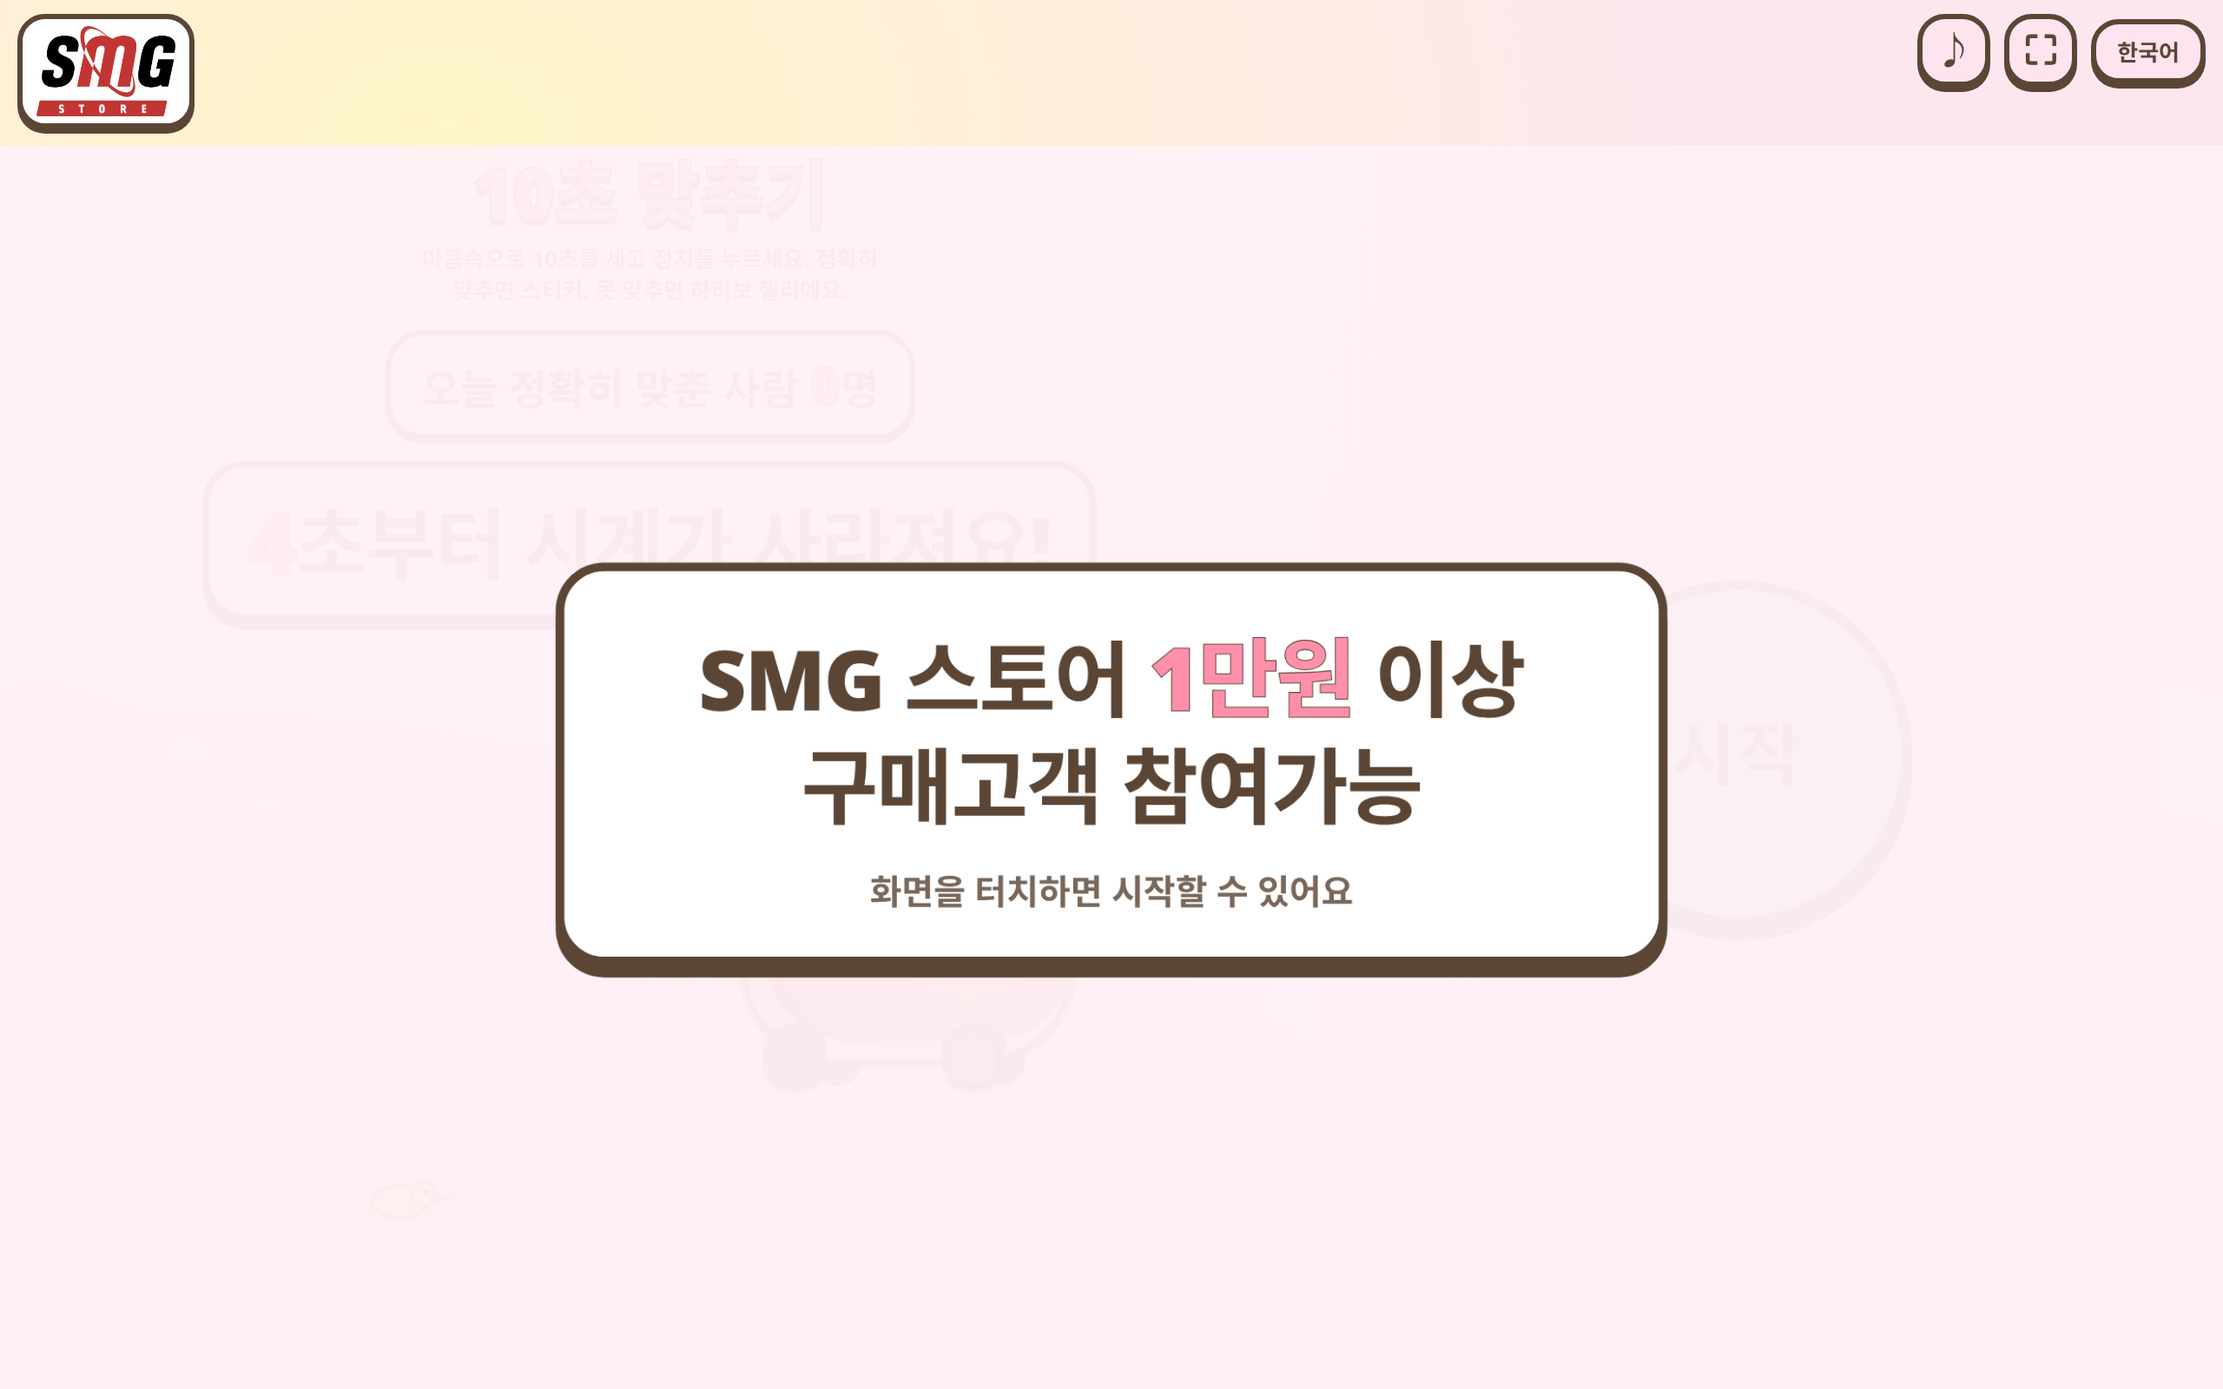
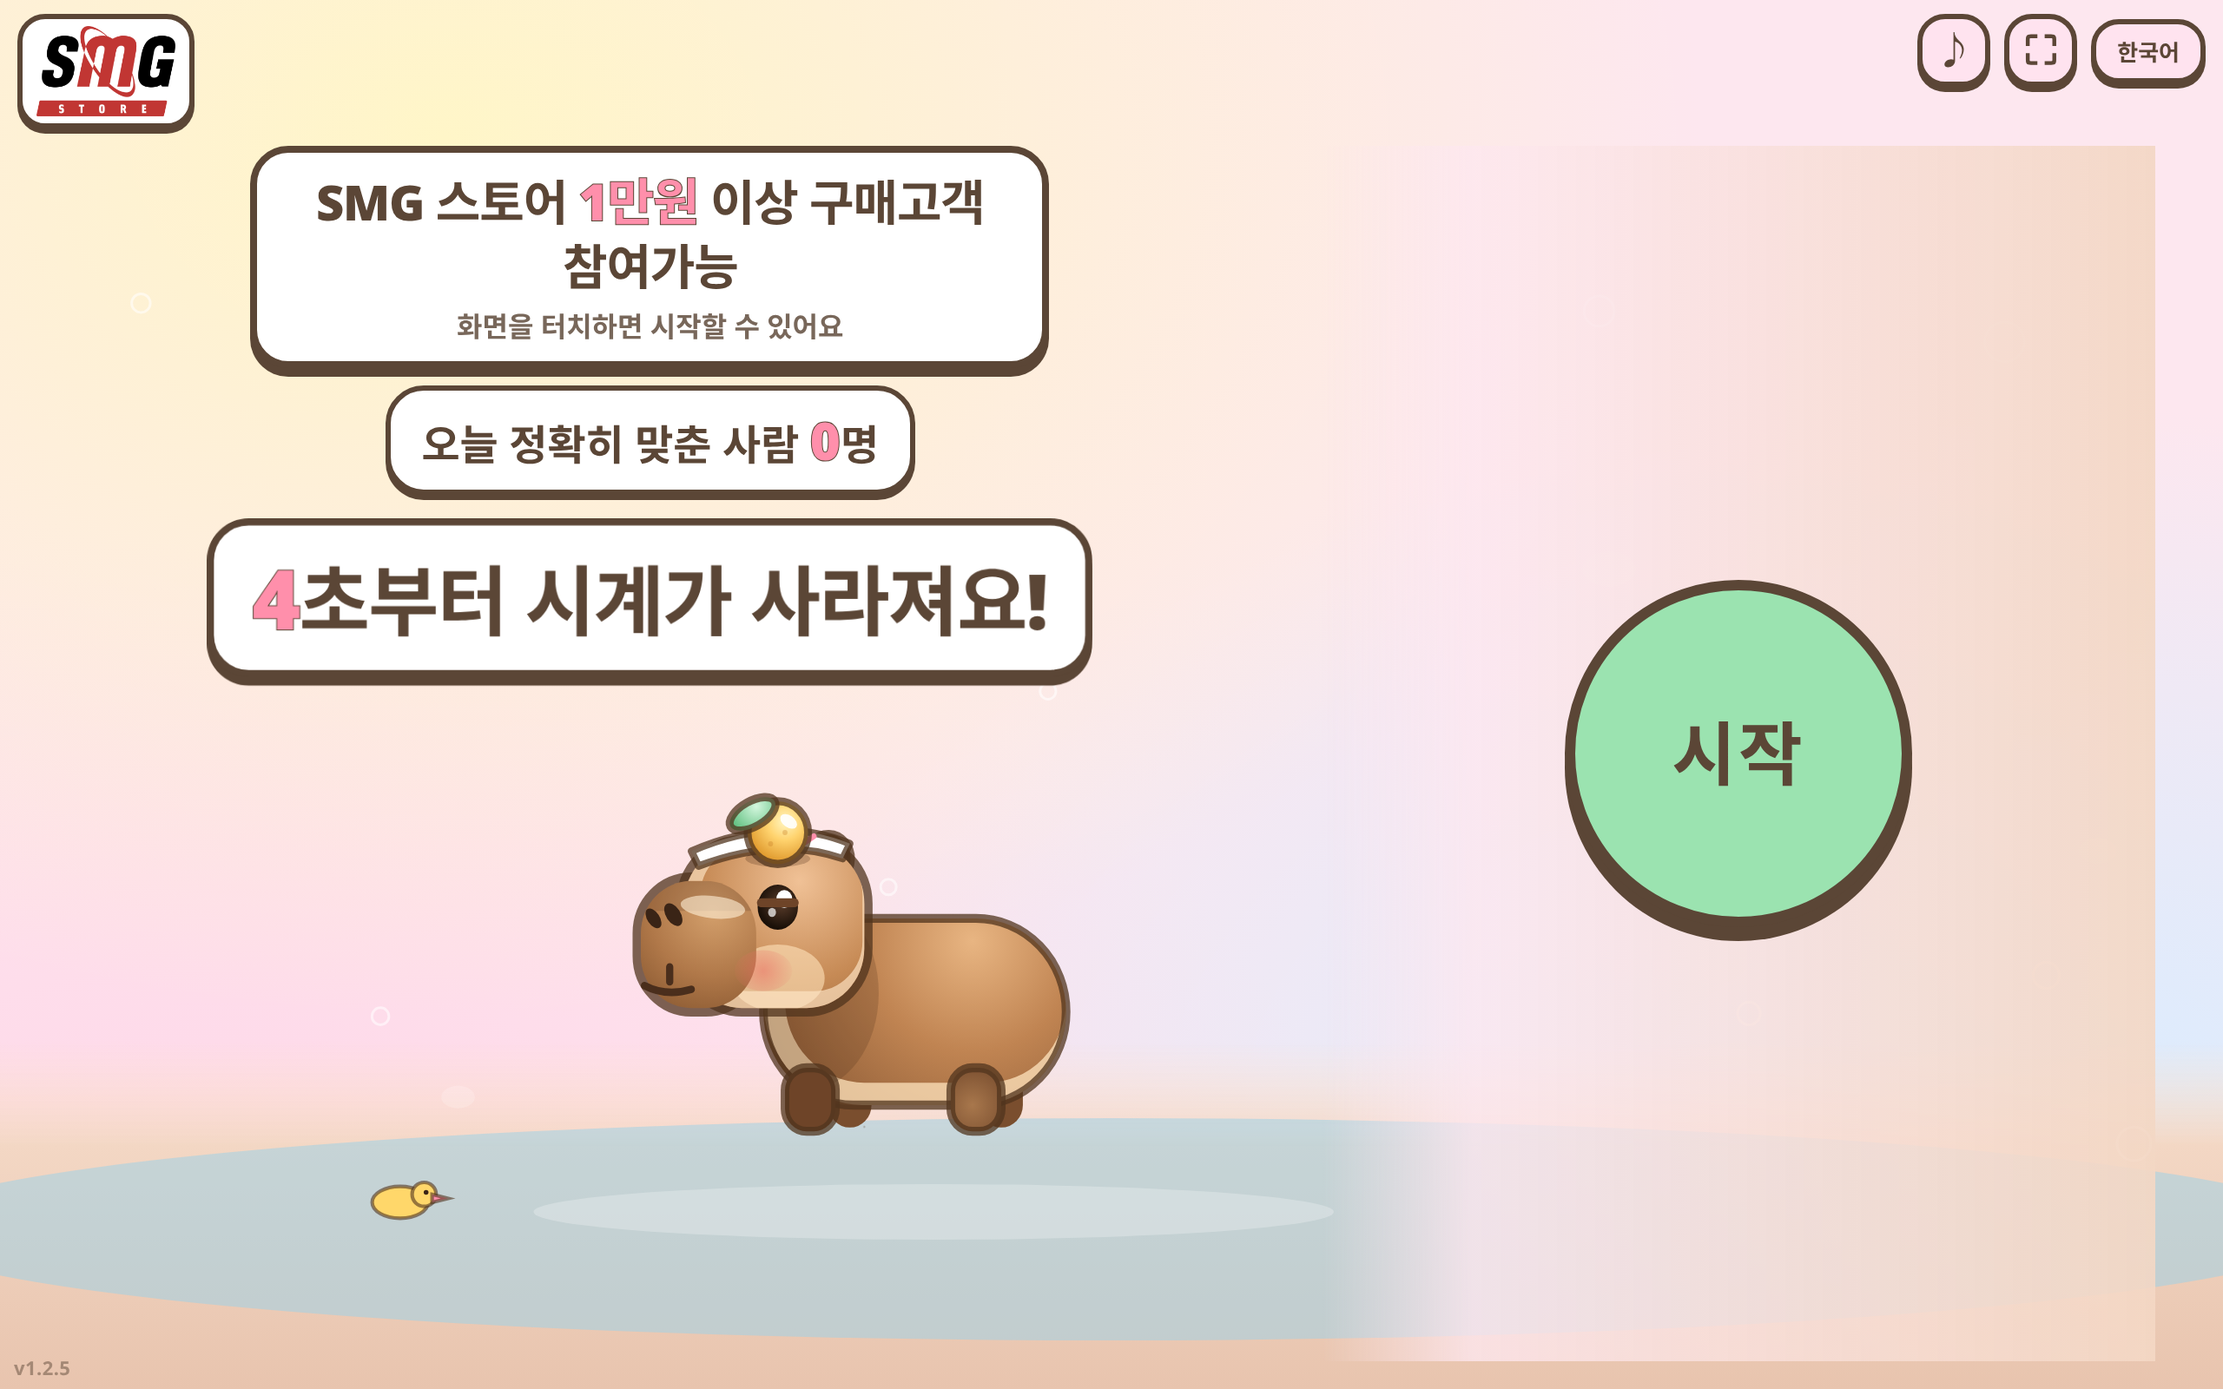
Shrink the tensec entry popup and auto-update cached game pages.

diff --git a/tensec/index.html b/tensec/index.html
@@ -24,7 +24,7 @@ html,body{margin:0;position:fixed;inset:0;width:100%;height:100%;height:100dvh;h
 #app{display:flex;flex-direction:column;align-items:center;padding:0 max(14px,env(safe-area-inset-right)) max(16px,env(safe-area-inset-bottom)) max(14px,env(safe-area-inset-left));z-index:1}
 #scene{position:fixed;left:0;right:0;top:var(--app-top,0);width:100%;height:var(--app-h,100dvh);z-index:0;pointer-events:auto}
 #app{pointer-events:none;background:transparent}
- #app button,#app input,#app table,#app .ov,#app .card,#app #chipLang,#app #clockWrap,#app #result,#app #iosHint,#app #prizeRow,#app #entryGate,#pin,#admin{pointer-events:auto}
+ #app button,#app input,#app table,#app .ov,#app .card,#app #chipLang,#app #clockWrap,#app #result,#app #iosHint,#app #prizeRow,#app #entryGate,#app #entryCatch,#pin,#admin{pointer-events:auto}
 #logo{position:absolute;top:max(8px,env(safe-area-inset-top));left:max(10px,env(safe-area-inset-left));z-index:25;background:#fff;border:3px solid var(--line);border-radius:16px;padding:4px 8px;font-family:inherit;box-shadow:0 3px 0 var(--line);line-height:0}
 #logo img{display:block;height:44px;width:auto;max-width:168px}
 #logo:active{transform:translateY(2px);box-shadow:0 1px 0 var(--line)}
@@ -159,17 +159,21 @@ h1{font-size:clamp(28px,7.2vmin,52px);margin:4px 0 6px;color:var(--title);-webki
   #go.stop{margin-bottom:40px}
 }
 
-#entryGate{position:fixed;left:0;right:0;bottom:0;top:calc(var(--app-top,0px) + var(--chrome-h));z-index:20;display:flex;align-items:center;justify-content:center;padding:12px 16px max(16px,env(safe-area-inset-bottom));background:var(--ov);box-sizing:border-box;pointer-events:auto}
+#entryCatch{position:fixed;left:0;right:0;bottom:0;top:calc(var(--app-top,0px) + var(--chrome-h));z-index:20;background:transparent;pointer-events:auto}
+#entryCatch.hide{display:none!important}
+#entryGate{position:absolute;left:0;right:0;top:0;z-index:21;display:flex;justify-content:center;align-items:flex-start;width:100%;margin:0;padding:0 8px;box-sizing:border-box;background:transparent;pointer-events:auto}
 #entryGate.hide{display:none!important}
 #entryGate.out{animation:gateout .28s ease both;pointer-events:none}
-#entryGate:not(.hide):not(.out){animation:gatein .45s ease both}
+#entryGate:not(.hide):not(.out){animation:gatein .4s ease both}
 .low #entryGate:not(.hide):not(.out),.low #entryGate.out{animation:none}
-.entryCard{background:#fff;border:5px solid var(--line);border-radius:28px;box-shadow:0 7px 0 var(--line);padding:clamp(18px,3.6vmin,32px) clamp(18px,4vmin,36px) clamp(16px,3vmin,26px);width:min(640px,94%);max-width:94vw;max-height:100%;text-align:center;box-sizing:border-box;overflow:auto;color:var(--ink)}
-#entryMsg{margin:0;font-weight:900;font-size:clamp(24px,6.2vmin,48px);line-height:1.3;letter-spacing:-0.02em;word-break:keep-all;overflow-wrap:anywhere}
+body.gated #title,body.gated #help{visibility:hidden}
+.entryCard{background:#fff;border:4px solid var(--line);border-radius:22px;box-shadow:0 5px 0 var(--line);padding:10px 16px 8px;width:min(460px,92%);max-width:92vw;text-align:center;box-sizing:border-box;overflow:visible;color:var(--ink)}
+#entryMsg{margin:0;font-weight:900;font-size:clamp(22px,4.2vmin,28px);line-height:1.3;letter-spacing:-0.02em;word-break:keep-all;overflow-wrap:anywhere}
 #entryMsg b{color:var(--title);font-size:1.04em;-webkit-text-stroke:1px var(--line);paint-order:stroke fill}
-#entryHint{margin:14px 0 0;font-weight:700;font-size:clamp(14px,3.2vmin,20px);line-height:1.35;opacity:.82}
-@keyframes gatein{0%{opacity:0;transform:translateY(18px) scale(.92)}62%{opacity:1;transform:translateY(-4px) scale(1.03)}100%{opacity:1;transform:translateY(0) scale(1)}}
-@keyframes gateout{0%{opacity:1;transform:translateY(0) scale(1)}100%{opacity:0;transform:translateY(10px) scale(.96)}}
+#entryHint{margin:6px 0 0;font-weight:700;font-size:clamp(12px,2.6vmin,16px);line-height:1.35;opacity:.82}
+@keyframes gatein{0%{opacity:0}100%{opacity:1}}
+@keyframes gateout{0%{opacity:1}100%{opacity:0}}
+#appVer{position:fixed;left:max(8px,env(safe-area-inset-left));bottom:max(6px,env(safe-area-inset-bottom));z-index:8;margin:0;padding:0;font-weight:700;font-size:11px;letter-spacing:.02em;color:var(--ink);opacity:.48;pointer-events:none;line-height:1}
 
 </style>
 </head>
@@ -184,14 +188,16 @@ h1{font-size:clamp(28px,7.2vmin,52px);margin:4px 0 6px;color:var(--title);-webki
     <button id="btnFS" type="button" class="hide" aria-label="fullscreen">⛶</button>
     <button id="chipLang" type="button"></button>
   </div>
-    <div id="entryGate" class="hide" role="dialog" aria-modal="true" aria-labelledby="entryMsg" aria-describedby="entryHint">
-    <div class="entryCard">
-      <p id="entryMsg"></p>
-      <p id="entryHint"></p>
-    </div>
-  </div>
+    <div id="entryCatch" class="hide" aria-hidden="true"></div>
+    <div id="appVer" aria-hidden="true"></div>
 <div id="stage">
     <div class="landCol hud">
+      <div id="entryGate" class="hide" role="dialog" aria-modal="true" aria-labelledby="entryMsg" aria-describedby="entryHint">
+        <div class="entryCard">
+          <p id="entryMsg"></p>
+          <p id="entryHint"></p>
+        </div>
+      </div>
       <h1 id="title"></h1>
       <p class="help" id="help"></p>
       <div id="hitsWrap"><div id="hits"></div><div id="hitsPlus">+1</div></div>
@@ -258,7 +264,7 @@ h1{font-size:clamp(28px,7.2vmin,52px);margin:4px 0 6px;color:var(--title);-webki
 <script>
 (function(){
 'use strict';
-var TARGET=10, LS_CFG='tensec_cfg', LS_LOG='tensec_log', AUTO_STOP=30;
+var APP_VER='1.2.5',TARGET=10, LS_CFG='tensec_cfg', LS_LOG='tensec_log', AUTO_STOP=30;
 var LOW=/[?&]low=1/.test(location.search)||(window.matchMedia&&matchMedia('(prefers-reduced-motion: reduce)').matches);
 if(LOW) document.body.classList.add('low');
 var LANGS=['ko','en','id'];
@@ -1153,6 +1159,7 @@ function padChrome(){
   });
   var h=Math.max(64, Math.ceil(bot+10));
   document.documentElement.style.setProperty('--chrome-h',h+'px');
+  if(typeof layoutEntryGate==='function')layoutEntryGate();
 }
 function syncChrome(){
   updateFSUI();
@@ -1203,6 +1210,7 @@ function applyLang(){
   else if(mode==='run')$('go').textContent=t('stop');
   $('next').textContent=cfg.staffReset?t('next'):t('again');
   paintEntryGate();
+  layoutEntryGate();
   if(mode==='title')setRuleHint('rule');
   else if(mode==='run'&&hidden)setRuleHint('hide');
   else setRuleHint(false);
@@ -1298,14 +1306,46 @@ function paintEntryGate(){
   if($('entryHint'))$('entryHint').textContent=t('entryHint');
 }
 function isEntryGateOn(){return !!entryOpen}
+function setCatch(on){
+  var c=$('entryCatch'); if(!c)return;
+  c.classList.toggle('hide',!on);
+  c.setAttribute('aria-hidden',on?'false':'true');
+}
+function layoutEntryGate(){
+  var wrap=$('hitsWrap');
+  if(wrap) wrap.style.marginTop='';
+  if(!entryOpen)return;
+  var el=$('entryGate'), card=el&&el.querySelector('.entryCard');
+  if(!card||!wrap||el.classList.contains('hide'))return;
+  var prevA=el.style.animation;
+  el.style.animation='none';
+  void wrap.offsetHeight;
+  var cur=parseFloat(getComputedStyle(wrap).marginTop)||0;
+  var cr=card.getBoundingClientRect(), hr=wrap.getBoundingClientRect();
+  var need=10-(hr.top-cr.bottom);
+  if(need>0) wrap.style.marginTop=Math.ceil(cur+need)+'px';
+  el.style.animation=prevA;
+}
 function showEntryGate(){
   var el=$('entryGate'); if(!el)return;
   if(entryHideT){clearTimeout(entryHideT);entryHideT=0}
   paintEntryGate();
   entryOpen=true;
+  document.body.classList.add('gated');
   el.classList.remove('hide','out');
   el.setAttribute('aria-hidden','false');
+  setCatch(true);
   void el.offsetWidth;
+  if(typeof padChrome==='function')padChrome();
+  layoutEntryGate();
+}
+function finishHideGate(){
+  var el=$('entryGate');
+  if(el){el.classList.add('hide');el.classList.remove('out')}
+  document.body.classList.remove('gated');
+  setCatch(false);
+  layoutEntryGate();
+  if(typeof padChrome==='function')padChrome();
 }
 function hideEntryGate(instant){
   var el=$('entryGate'); if(!el)return;
@@ -1313,13 +1353,13 @@ function hideEntryGate(instant){
   el.setAttribute('aria-hidden','true');
   if(entryHideT){clearTimeout(entryHideT);entryHideT=0}
   if(instant||LOW||el.classList.contains('hide')){
-    el.classList.add('hide');el.classList.remove('out');
+    finishHideGate();
     return;
   }
   el.classList.add('out');
   entryHideT=setTimeout(function(){
     entryHideT=0;
-    if(!entryOpen){el.classList.add('hide');el.classList.remove('out')}
+    if(!entryOpen)finishHideGate();
   },280);
 }
 function showTitle(){
@@ -1333,6 +1373,7 @@ function showTitle(){
   setRuleHint('rule');
   setPose('idle');setMusicState('idle');syncChrome();
   showEntryGate();
+  if(typeof maybeSWReload==='function')maybeSWReload();
 }
 function startRun(ev){
   if(ev){ev.preventDefault();ev.stopPropagation()}
@@ -1568,11 +1609,48 @@ if($('entryGate')){
   $('entryGate').addEventListener('pointerdown',onGateDismiss);
   $('entryGate').addEventListener('click',onGateDismiss);
 }
-buildPad();applyLang();applyMusicCfg();showTitle();startScene();
-
-if('serviceWorker' in navigator&&location.protocol!=='file:'&&!/[?&]nosw=1/.test(location.search)){
-  navigator.serviceWorker.register('sw.js');
+if($('entryCatch')){
+  $('entryCatch').addEventListener('pointerdown',onGateDismiss);
+  $('entryCatch').addEventListener('click',onGateDismiss);
 }
+if($('appVer'))$('appVer').textContent='v'+APP_VER;
+
+var swReloadPending=false,swJustReloaded=false;
+function canSWReload(){
+  if(typeof revealing!=='undefined'&&revealing)return false;
+  if(typeof mode!=='undefined'&&(mode==='run'||mode==='reveal'||mode==='result'))return false;
+  return true;
+}
+function maybeSWReload(){
+  if(!swReloadPending||swJustReloaded||!canSWReload())return;
+  swJustReloaded=true;
+  try{sessionStorage.setItem('ts_sw_reloaded','1')}catch(e){}
+  location.reload();
+}
+function setupSWUpdates(){
+  if(!('serviceWorker' in navigator)||location.protocol==='file:'||/[?&]nosw=1/.test(location.search))return;
+  try{
+    swJustReloaded=sessionStorage.getItem('ts_sw_reloaded')==='1';
+    if(swJustReloaded)sessionStorage.removeItem('ts_sw_reloaded');
+  }catch(e){}
+  navigator.serviceWorker.addEventListener('controllerchange',function(){
+    if(swJustReloaded)return;
+    if(!canSWReload()){swReloadPending=true;return}
+    swJustReloaded=true;
+    try{sessionStorage.setItem('ts_sw_reloaded','1')}catch(e){}
+    location.reload();
+  });
+  var registration=navigator.serviceWorker.register('sw.js');
+  function poke(){registration.then(function(r){return r.update()}).catch(function(){})}
+  poke();
+  document.addEventListener('visibilitychange',function(){
+    if(document.visibilityState==='visible'){poke();maybeSWReload()}
+  });
+  setInterval(poke,30000);
+}
+setupSWUpdates();
+
+buildPad();applyLang();applyMusicCfg();showTitle();startScene();
 
 window.__ts={
   TARGET:TARGET, defaultCfg:defaultCfg, prizeLabel:prizeLabel, mergeCfg:mergeCfg, absErr:absErr, toMs:toMs, inStock:inStock,
@@ -1580,7 +1658,7 @@ window.__ts={
   unlockMs:function(){return window.__tsUnlockMs}, musOn:function(){return !!(mus&&mus.on)}, musUnlocked:function(){return !!(mus&&mus.unlocked)}, hasBgm:function(){return !!(mus&&(mus.fileSrc||mus.fileBuf))}, fxLive:function(){var n=0,i;for(i=0;i<FXN;i++) if(bits[i]&&bits[i].on)n++;return n;}, capDpr:capDpr, clearFx:clearFx, pickTierIndex:pickTierIndex, awardPrize:awardPrize, applyAward:applyAward, fmtTime:fmtTime,
   get cfg(){return cfg}, set cfg(v){cfg=mergeCfg(v)}, get log(){return log}, set log(v){log=v},
   get mode(){return mode}, get lang(){return lang}, get hidden(){return hidden}, get lastAward(){return lastAward},
-  setRuleHint:setRuleHint, hideRuleText:hideRuleText, showTitle:showTitle, startRun:startRun, stopRun:stopRun, finish:finish, renderResult:renderResult, showEntryGate:showEntryGate, hideEntryGate:hideEntryGate, gateOn:isEntryGateOn,
+  setRuleHint:setRuleHint, hideRuleText:hideRuleText, showTitle:showTitle, startRun:startRun, stopRun:stopRun, finish:finish, renderResult:renderResult, showEntryGate:showEntryGate, hideEntryGate:hideEntryGate, gateOn:isEntryGateOn, APP_VER:APP_VER, maybeSWReload:maybeSWReload,
   openAdmin:function(bypass){if(bypass&&/[?&](nosw|test)=1/.test(location.search))openAdmin();else showPin()},
   showPin:showPin, closeAdmin:closeAdmin, saveCfg:saveCfg, saveLog:saveLog, loadCfg:loadCfg,
   forceRun:function(elapsed,hide){

diff --git a/tensec/sw.js b/tensec/sw.js
@@ -1,6 +1,38 @@
-var CACHE='yts-583ac63b',FILES=['./','index.html','manifest.json','icons/icon-192.png','icons/icon-512.png','icons/apple-touch-icon.png','assets/smg_logo.png','assets/bgm.m4a','assets/bgm.mp3','assets/win.m4a','assets/win.mp3'];
-self.addEventListener('install',function(e){self.skipWaiting();e.waitUntil(caches.open(CACHE).then(function(c){return Promise.all(FILES.map(function(f){return c.add(new Request(f,{cache:'reload'})).catch(function(){})}))}))});
-self.addEventListener('activate',function(e){e.waitUntil(caches.keys().then(function(ks){return Promise.all(ks.filter(function(k){return k.indexOf('yts-')==0&&k!==CACHE}).map(function(k){return caches.delete(k)}))}).then(function(){return self.clients.claim()}))});
-self.addEventListener('fetch',function(e){var r=e.request;if(r.method!=='GET'||new URL(r.url).origin!==location.origin)return;
- e.respondWith(caches.match(r,{ignoreSearch:true}).then(function(m){if(m)return m;
-  return fetch(r).then(function(res){if(res&&res.ok){var cp=res.clone();caches.open(CACHE).then(function(c){c.put(r,cp)})}return res}).catch(function(){return r.mode==='navigate'?caches.match('index.html'):Response.error()})}))});
+var CACHE='yts-5c9d6aaa',FILES=['./','index.html','manifest.json','icons/icon-192.png','icons/icon-512.png','icons/apple-touch-icon.png','assets/smg_logo.png','assets/bgm.m4a','assets/bgm.mp3','assets/win.m4a','assets/win.mp3'];
+function isIndexReq(r){
+  if(r.mode==='navigate')return true;
+  var u=new URL(r.url),p=u.pathname;
+  if(/index\.html$/i.test(p)||/\/$/.test(p))return true;
+  var dest=r.destination;return dest==='document';
+}
+self.addEventListener('install',function(e){
+  self.skipWaiting();
+  e.waitUntil(caches.open(CACHE).then(function(c){
+    return Promise.all(FILES.map(function(f){return c.add(new Request(f,{cache:'reload'})).catch(function(){})}));
+  }));
+});
+self.addEventListener('activate',function(e){
+  e.waitUntil(caches.keys().then(function(ks){
+    return Promise.all(ks.filter(function(k){return k.indexOf('yts-')==0&&k!==CACHE}).map(function(k){return caches.delete(k)}));
+  }).then(function(){return self.clients.claim()}));
+});
+self.addEventListener('fetch',function(e){
+  var r=e.request;
+  if(r.method!=='GET'||new URL(r.url).origin!==location.origin)return;
+  if(isIndexReq(r)){
+    e.respondWith(fetch(new Request(r,{cache:'reload'})).then(function(res){
+      if(res&&res.ok){var cp=res.clone();caches.open(CACHE).then(function(c){c.put('index.html',cp);try{c.put(r,res.clone())}catch(err){}})}
+      return res;
+    }).catch(function(){
+      return caches.match(r,{ignoreSearch:true}).then(function(m){return m||caches.match('index.html')||caches.match('./')});
+    }));
+    return;
+  }
+  e.respondWith(caches.match(r,{ignoreSearch:true}).then(function(m){
+    if(m)return m;
+    return fetch(r).then(function(res){
+      if(res&&res.ok){var cp=res.clone();caches.open(CACHE).then(function(c){c.put(r,cp)})}
+      return res;
+    }).catch(function(){return Response.error()});
+  }));
+});
